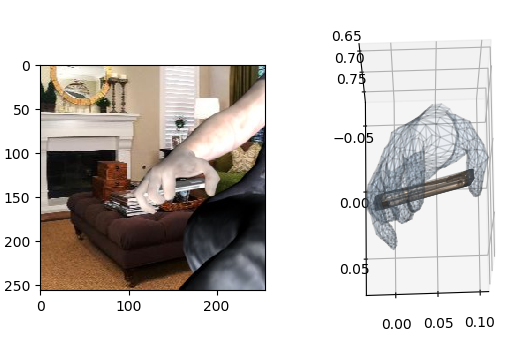
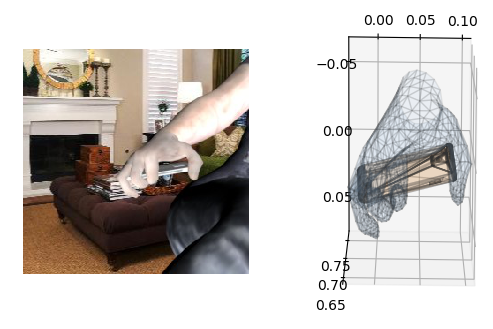
Better visualization

diff --git a/obman/visutils.py b/obman/visutils.py
@@ -15,6 +15,7 @@ def visualize_2d(img,
     fig = plt.figure()
     ax = fig.add_subplot(111)
     ax.imshow(img)
+    ax.axis('off')
     if hand_joints is not None:
         viz2d.visualize_joints_2d(
             ax, hand_joints, joint_idxs=False, links=links)
@@ -33,6 +34,7 @@ def visualize_3d(img,
     fig = plt.figure()
     ax = fig.add_subplot(121)
     ax.imshow(img)
+    ax.axis('off')
     ax = fig.add_subplot(122, projection='3d')
     add_mesh(ax, hand_verts, hand_faces)
     add_mesh(ax, obj_verts, obj_faces, c='r')

diff --git a/README.md b/README.md
@@ -43,3 +43,4 @@ obman/
 Options you might be interested in `--segment` which keeps only the foreground `--mini_factor 0.01` to load only 1% of the data (to speed-up loading)
 
 ![image](assets/viz3d.png)
+![image](assets/viz2d.png)
